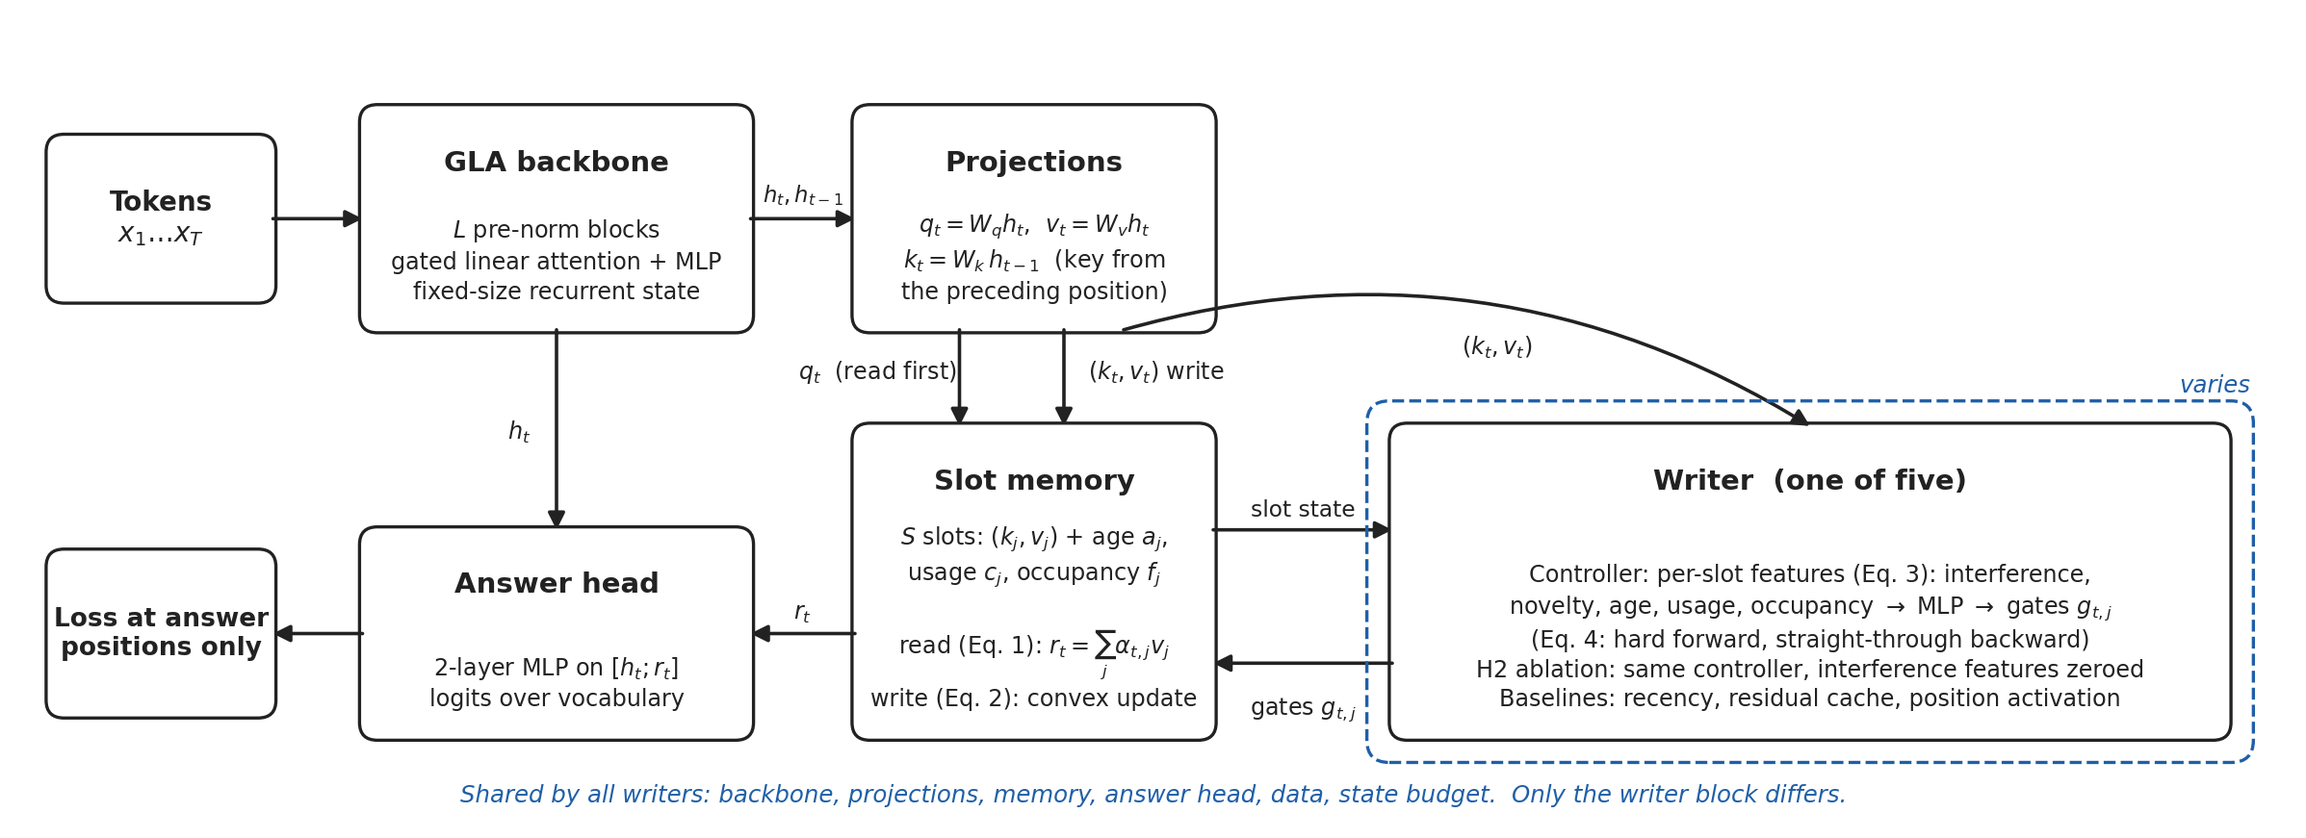
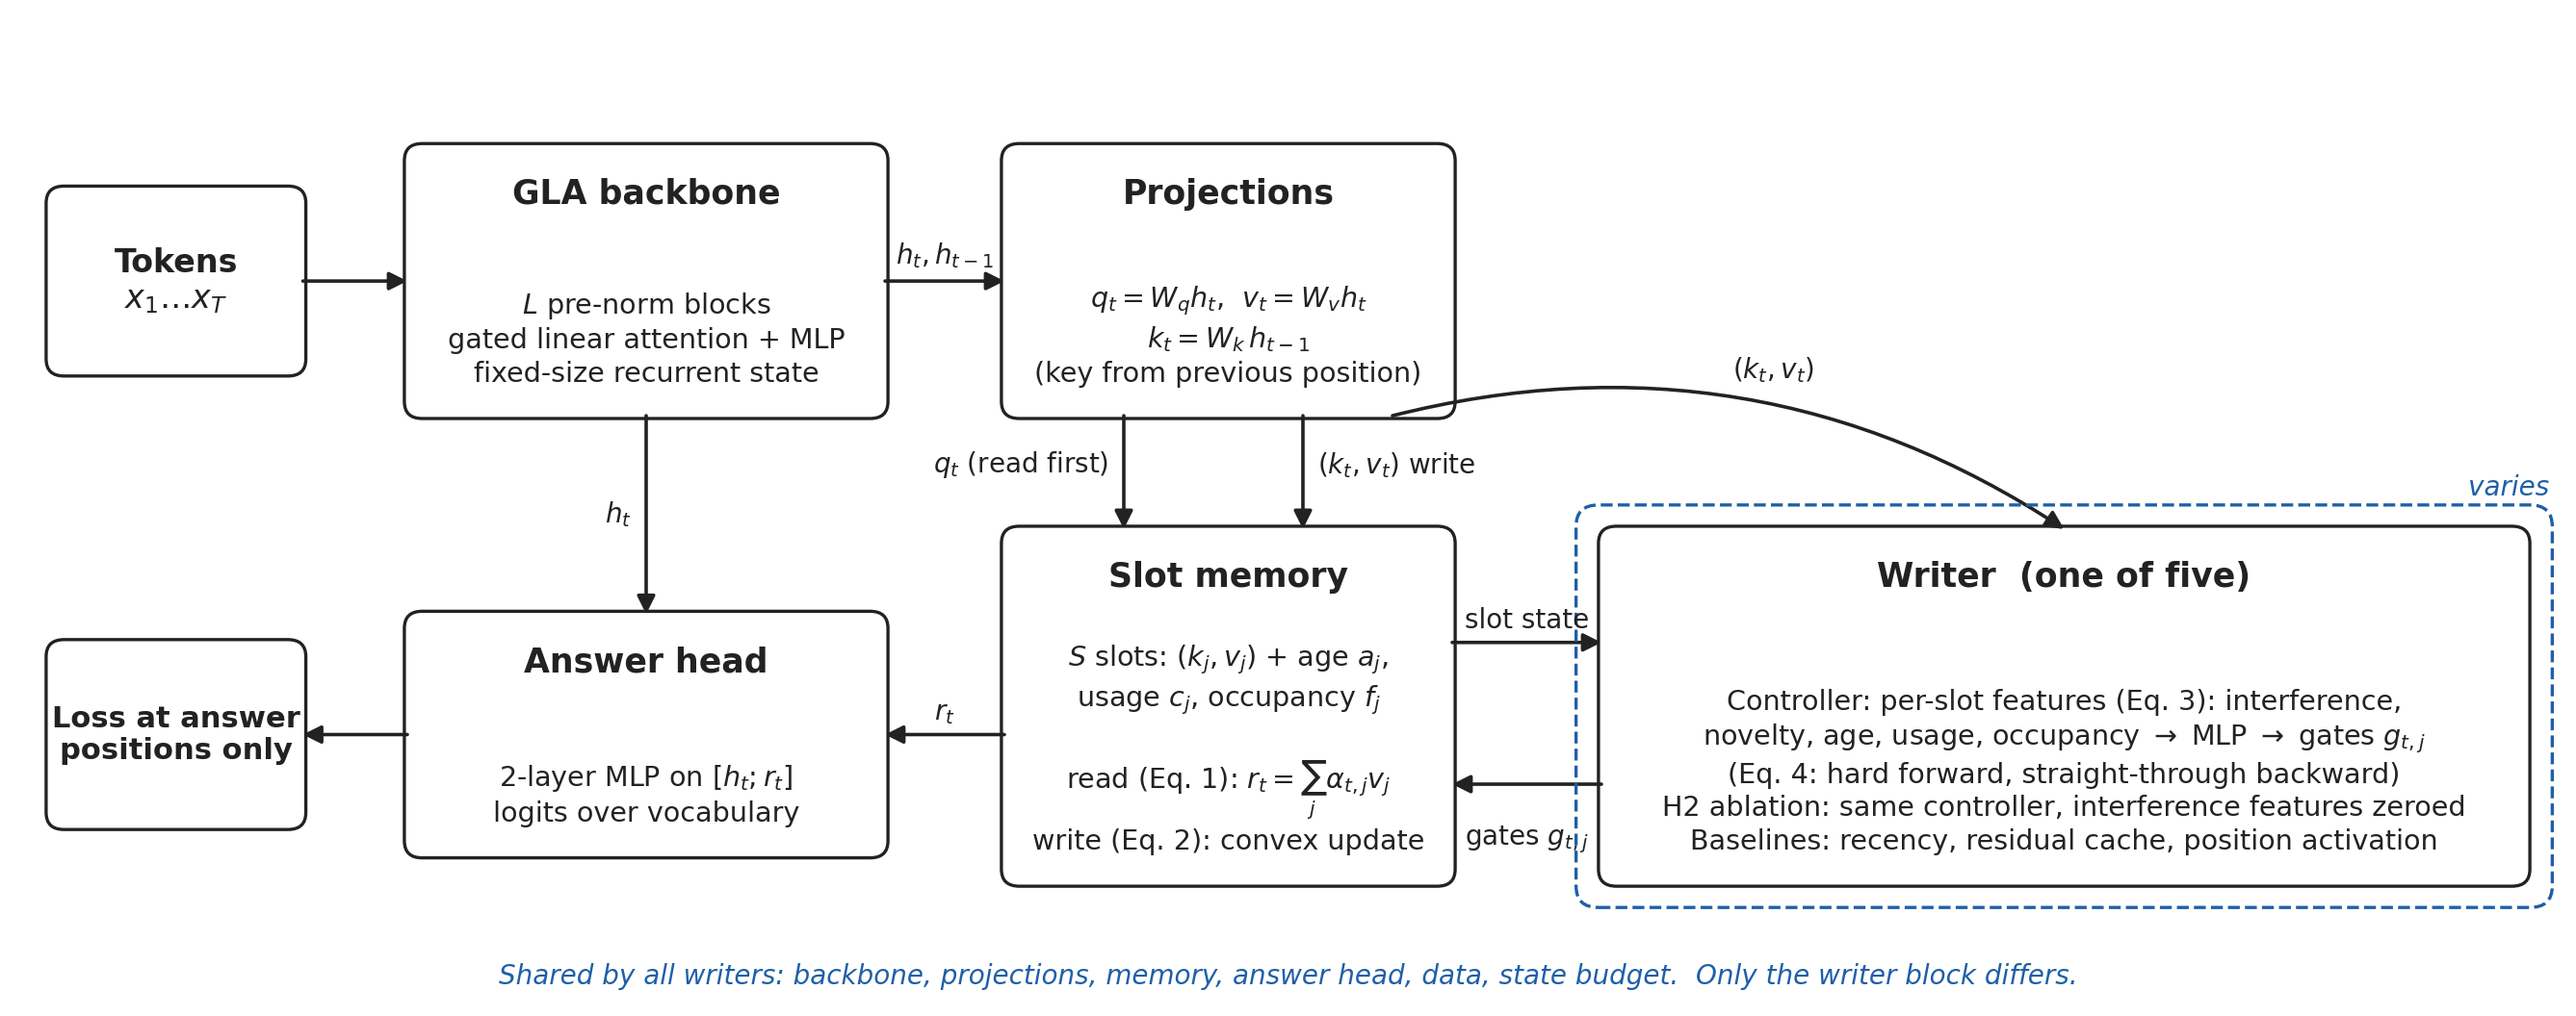
Fig. 1: larger boxes and type so the diagram is legible at column width

diff --git a/experiments/block_diagram.py b/experiments/block_diagram.py
@@ -4,66 +4,63 @@ matplotlib.use("Agg")
 import matplotlib.pyplot as plt
 from matplotlib.patches import FancyBboxPatch, FancyArrowPatch
 
-fig, ax = plt.subplots(figsize=(15.2, 5.4), dpi=200)
-ax.set_xlim(0, 15.2); ax.set_ylim(0, 5.4); ax.axis("off")
-INK, ACC, SOFT = "#222", "#1f5fa8", "#f3f6fb"
+W, H = 17.0, 6.6
+fig, ax = plt.subplots(figsize=(W, H), dpi=200)
+ax.set_xlim(0, W); ax.set_ylim(-0.3, H); ax.axis("off")
+INK, ACC = "#222", "#1f5fa8"
+FT, FB, FL = 12.5, 10.3, 10   # title, body, edge-label font sizes
 
-def box(x, y, w, h, title, body="", fc="white", ec=INK, lw=1.2, fs=10.5):
+def box(x, y, w, h, title, body="", fs=FT):
     ax.add_patch(FancyBboxPatch((x, y), w, h, boxstyle="round,pad=0.02,rounding_size=0.12",
-                                fc=fc, ec=ec, lw=lw))
+                                fc="white", ec=INK, lw=1.2))
     if body:
-        ax.text(x + w/2, y + h - 0.28, title, ha="center", va="top", fontsize=fs, weight="bold", color=INK)
-        ax.text(x + w/2, y + 0.18, body, ha="center", va="bottom", fontsize=8.6, color=INK, linespacing=1.35)
+        ax.text(x + w/2, y + h - 0.22, title, ha="center", va="top", fontsize=fs, weight="bold", color=INK)
+        ax.text(x + w/2, y + 0.2, body, ha="center", va="bottom", fontsize=FB, color=INK, linespacing=1.3)
     else:
         ax.text(x + w/2, y + h/2, title, ha="center", va="center", fontsize=fs, weight="bold", color=INK)
 
-def arrow(p, q, label="", color=INK, style="-|>", lw=1.3, dx=0, dy=0.12, fs=8.6, rad=0.0):
-    ax.add_patch(FancyArrowPatch(p, q, arrowstyle=style, mutation_scale=13, lw=lw, color=color,
+def arrow(p, q, label="", dx=0, dy=0.1, rad=0.0, ha="center"):
+    ax.add_patch(FancyArrowPatch(p, q, arrowstyle="-|>", mutation_scale=14, lw=1.3, color=INK,
                                  connectionstyle=f"arc3,rad={rad}", shrinkA=0, shrinkB=0))
     if label:
-        ax.text((p[0]+q[0])/2 + dx, (p[1]+q[1])/2 + dy, label, ha="center", va="bottom", fontsize=fs, color=color)
+        ax.text((p[0]+q[0])/2 + dx, (p[1]+q[1])/2 + dy, label, ha=ha, va="bottom", fontsize=FL, color=INK)
 
-# --- top row: backbone and projections -------------------------------------
-box(0.2, 3.5, 1.5, 1.1, "Tokens\n$x_1 \\ldots x_T$", fs=10)
-box(2.3, 3.3, 2.6, 1.5, "GLA backbone",
+# top row -------------------------------------------------------------------
+box(0.2, 4.1, 1.7, 1.3, "Tokens\n$x_1 \\ldots x_T$", fs=12)
+box(2.6, 3.8, 3.2, 1.9, "GLA backbone",
     "$L$ pre-norm blocks\ngated linear attention + MLP\nfixed-size recurrent state")
-arrow((1.7, 4.05), (2.3, 4.05))
-box(5.6, 3.3, 2.4, 1.5, "Projections",
-    "$q_t = W_q h_t$,  $v_t = W_v h_t$\n$k_t = W_k\\, h_{t-1}$  (key from\nthe preceding position)")
-arrow((4.9, 4.05), (5.6, 4.05), "$h_t, h_{t-1}$", dy=0.08, fs=8.2)
+arrow((1.9, 4.75), (2.6, 4.75))
+box(6.6, 3.8, 3.0, 1.9, "Projections",
+    "$q_t = W_q h_t$,  $v_t = W_v h_t$\n$k_t = W_k\\, h_{t-1}$\n(key from previous position)")
+arrow((5.8, 4.75), (6.6, 4.75), "$h_t, h_{t-1}$", dy=0.08)
 
-# --- middle: memory and writer --------------------------------------------
-box(5.6, 0.55, 2.4, 2.1, "Slot memory",
+# middle row ----------------------------------------------------------------
+box(6.6, 0.5, 3.0, 2.5, "Slot memory",
     "$S$ slots: $(k_j, v_j)$ + age $a_j$,\nusage $c_j$, occupancy $f_j$\n\nread (Eq. 1): $r_t = \\sum_j \\alpha_{t,j} v_j$\nwrite (Eq. 2): convex update")
-box(9.2, 0.55, 5.6, 2.1, "Writer  (one of five)",
-    "Controller: per-slot features (Eq. 3): interference,\nnovelty, age, usage, occupancy "
-    "$\\to$ MLP $\\to$ gates $g_{t,j}$\n(Eq. 4: hard forward, straight-through backward)\n"
+box(10.6, 0.5, 6.2, 2.5, "Writer  (one of five)",
+    "Controller: per-slot features (Eq. 3): interference,\nnovelty, age, usage, occupancy $\\to$ MLP $\\to$ gates $g_{t,j}$\n"
+    "(Eq. 4: hard forward, straight-through backward)\n"
     "H2 ablation: same controller, interference features zeroed\n"
     "Baselines: recency, residual cache, position activation")
-# q to memory (read)
-arrow((6.3, 3.3), (6.3, 2.65), "$q_t$  (read first)", dx=-0.55, dy=-0.05)
-# (k,v) to writer
-arrow((7.4, 3.3), (12.0, 2.65), "$(k_t, v_t)$", dx=0.2, dy=0.12, rad=-0.22)
-# memory state to writer, gates back
-arrow((8.0, 1.95), (9.2, 1.95), "slot state", dy=0.06, fs=8.4)
-arrow((9.2, 1.05), (8.0, 1.05), "gates $g_{t,j}$", dy=-0.4)
-# (k,v) into memory for the write
-arrow((7.0, 3.3), (7.0, 2.65), "$(k_t, v_t)$ write", dx=0.62, dy=-0.05)
+arrow((7.4, 3.8), (7.4, 3.0), "$q_t$ (read first)", dx=-0.1, dy=-0.05, ha="right")
+arrow((8.6, 3.8), (8.6, 3.0), "$(k_t, v_t)$ write", dx=0.1, dy=-0.05, ha="left")
+arrow((9.2, 3.8), (13.7, 3.0), "$(k_t, v_t)$", dx=0.3, dy=0.62, rad=-0.22)
+arrow((9.6, 2.2), (10.6, 2.2), "slot state", dy=0.06)
+arrow((10.6, 1.2), (9.6, 1.2), "gates $g_{t,j}$", dy=-0.5)
 
-# --- bottom-left: answer head ----------------------------------------------
-box(2.3, 0.55, 2.6, 1.4, "Answer head",
-    "2-layer MLP on $[h_t ; r_t]$\nlogits over vocabulary")
-arrow((5.6, 1.25), (4.9, 1.25), "$r_t$", dy=0.06)
-arrow((3.6, 3.3), (3.6, 1.95), "$h_t$", dx=-0.25, dy=-0.1)
-box(0.2, 0.7, 1.5, 1.1, "Loss at answer\npositions only", fs=9.5)
-arrow((2.3, 1.25), (1.7, 1.25))
+# bottom-left ---------------------------------------------------------------
+box(2.6, 0.7, 3.2, 1.7, "Answer head", "2-layer MLP on $[h_t ; r_t]$\nlogits over vocabulary")
+arrow((6.6, 1.55), (5.8, 1.55), "$r_t$", dy=0.06)
+arrow((4.2, 3.8), (4.2, 2.4), "$h_t$", dx=-0.1, dy=-0.1, ha="right")
+box(0.2, 0.9, 1.7, 1.3, "Loss at answer\npositions only", fs=11)
+arrow((2.6, 1.55), (1.9, 1.55))
 
-# shared / varied annotation
-ax.text(7.6, 0.08, "Shared by all writers: backbone, projections, memory, answer head, data, state budget.  "
-                  "Only the writer block differs.", ha="center", va="bottom", fontsize=8.8, color=ACC, style="italic")
-ax.add_patch(FancyBboxPatch((9.05, 0.4), 5.9, 2.4, boxstyle="round,pad=0.02,rounding_size=0.15",
+# shared / varies -----------------------------------------------------------
+ax.add_patch(FancyBboxPatch((10.45, 0.35), 6.5, 2.8, boxstyle="round,pad=0.02,rounding_size=0.15",
                             fc="none", ec=ACC, lw=1.2, ls="--"))
-ax.text(14.95, 2.85, "varies", ha="right", va="bottom", fontsize=8.8, color=ACC, style="italic")
+ax.text(16.95, 3.2, "varies", ha="right", va="bottom", fontsize=FL, color=ACC, style="italic")
+ax.text(W/2, -0.25, "Shared by all writers: backbone, projections, memory, answer head, data, state budget.  "
+                    "Only the writer block differs.", ha="center", va="bottom", fontsize=FL, color=ACC, style="italic")
 
 fig.savefig("paper/figures/block-diagram.png", bbox_inches="tight", facecolor="white")
 print("wrote paper/figures/block-diagram.png")
